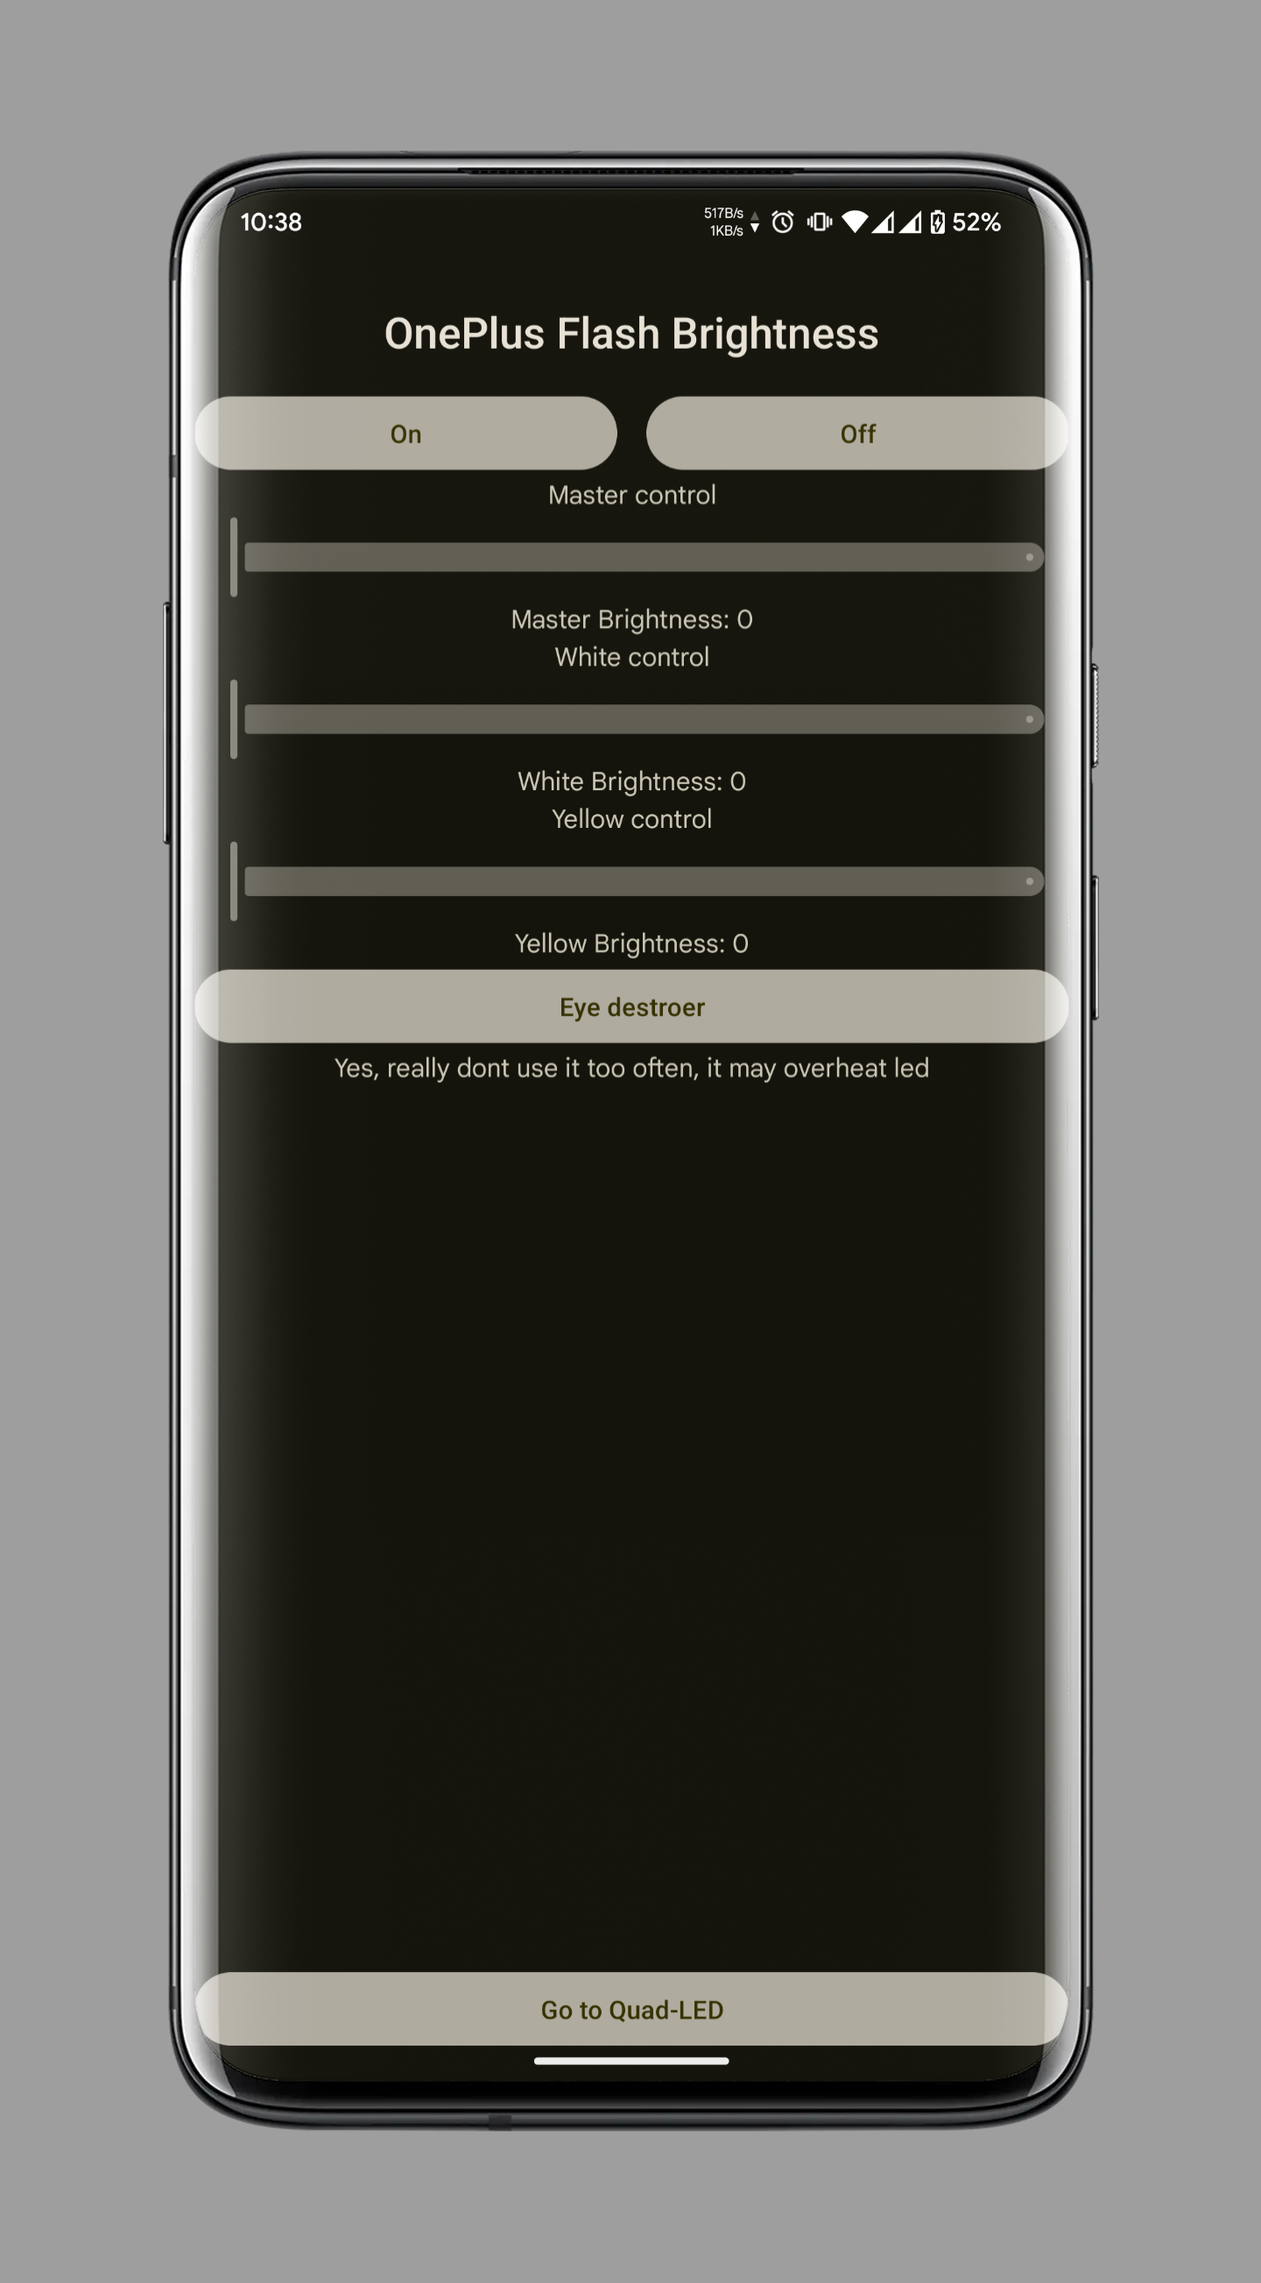
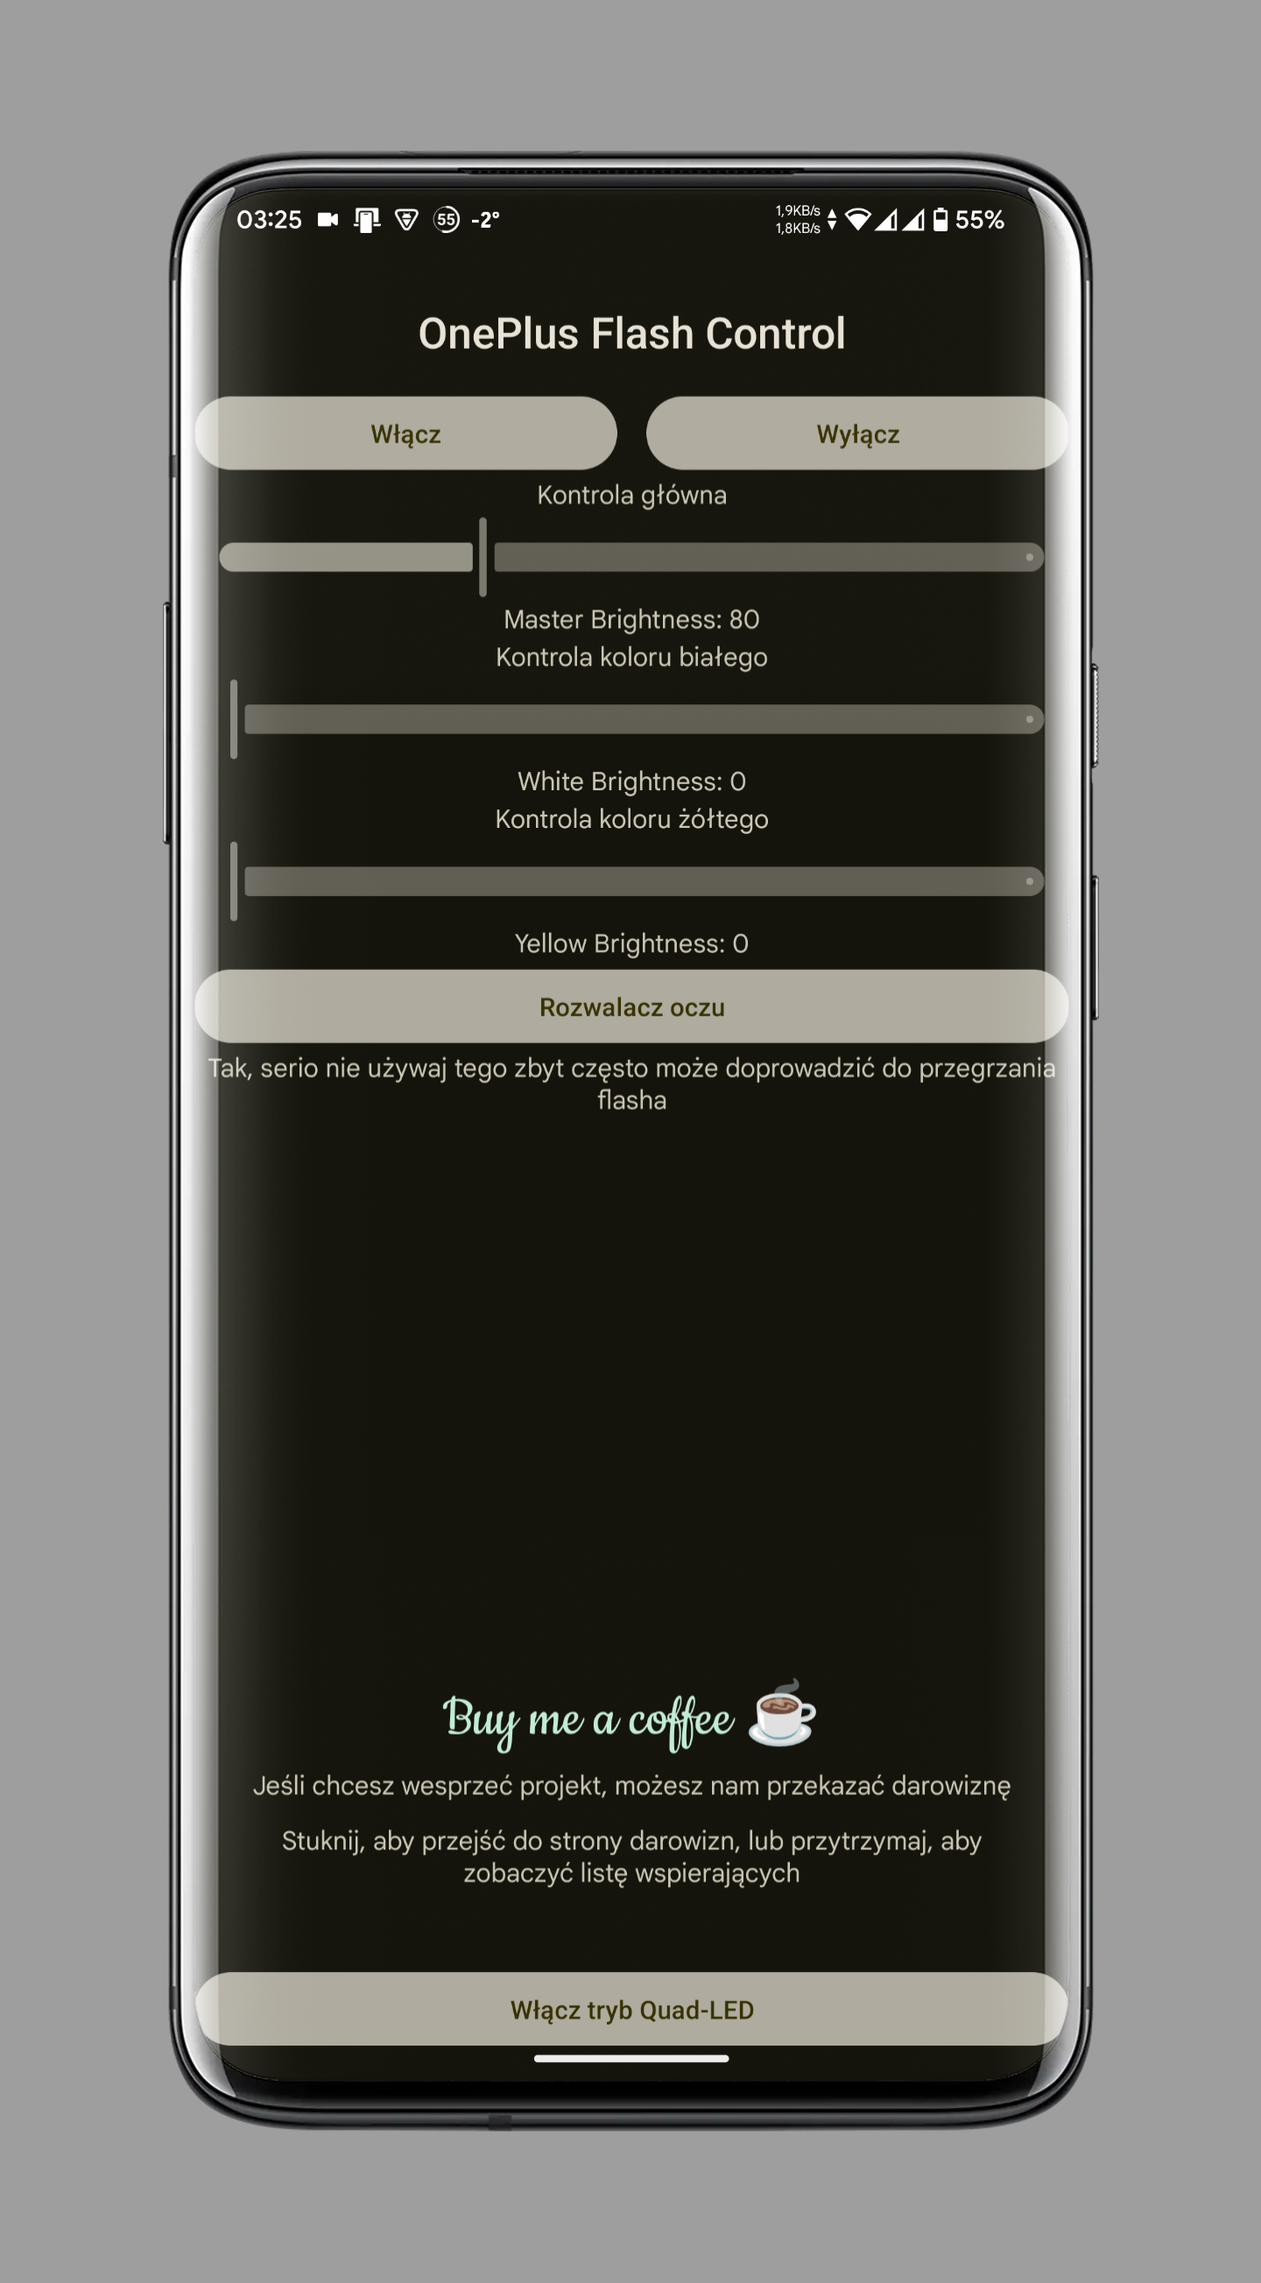
Feat: Add brightness safety limits and eye destroyer cooldown (#33)
* Refactor: Add brightness safety, cooldowns, and version bump

-   Added brightness safety checks to monitor for brightness levels exceeding limits in `MainActivity.kt` and `MainActivity2.kt`, reverting them to safe levels when detected and displaying a message to the user.
-   Implemented cooldown to limit the use of the eye destroyer functionality.
-   Bumped `versionCode` to 26 and `versionName` to 1.2.3 in `build.gradle.kts`.
-   Added `noGCSettingWarning` to the `BuildAttributionWarningsFilter` in `.idea/misc.xml`.
- Added `safety` string in `strings.xml` and `strings.xml`(PL).

* fix

* fix

* desc

* Update info text in string resources

- Changed the info string to "Yes, really dont use it too often, it may overheat/destroy led" in `strings.xml`.
- Changed the info string to "Tak, serio nie używaj tego zbyt często może doprowadzić do przegrzania/uszkodzenia flasha" in `strings.xml` for polish language.
- Updated screenshot images `screenshot1.png` and `screenshot2.png` within the metadata.

diff --git a/app/src/main/java/com/bartixxx/opflashcontrol/MainActivity2.kt b/app/src/main/java/com/bartixxx/opflashcontrol/MainActivity2.kt
@@ -13,13 +13,28 @@ class MainActivity2 : BaseActivity() {
     private lateinit var binding: ActivityMain2Binding
     private var clickCount = 0
     private var lastClickTime: Long = 0
+    private var brightnessCheckHandler: Handler? = null
+    private var brightnessCheckRunnable: Runnable? = null
+    private var brightnessExceededTime: Long = 0
+    private var safetyTriggered = false
+    private val MAX_BRIGHTNESS = 150
+    private val SAFE_BRIGHTNESS = 80
+    private val CHECK_INTERVAL = 200L // 200 ms
+    private var eyeDestroyerCooldown = false // Flag to track cooldown
 
     override fun onCreate(savedInstanceState: Bundle?) {
         super.onCreate(savedInstanceState)
         binding = ActivityMain2Binding.inflate(layoutInflater)
         setContentView(binding.root)
 
-        // Set the range of the sliders
+        // Initialize the brightness check handler
+        brightnessCheckHandler = Handler(Looper.getMainLooper())
+        brightnessCheckRunnable = Runnable {
+            checkBrightnessSafety()
+            brightnessCheckHandler?.postDelayed(brightnessCheckRunnable!!, CHECK_INTERVAL)
+        }
+        brightnessCheckHandler?.postDelayed(brightnessCheckRunnable!!, CHECK_INTERVAL)
+
         with(binding) {
             masterSeekBar.valueFrom = 0f
             masterSeekBar.value = 80f
@@ -80,6 +95,7 @@ class MainActivity2 : BaseActivity() {
                 VibrationUtil.vibrate(this@MainActivity2, 100L)
                 navigateBackToMainActivity()
             }
+
             // Set up click listener for the title which requires 5 clicks within 5 seconds
             flashbrightness.setOnClickListener {
                 val currentTime = System.currentTimeMillis()
@@ -94,12 +110,9 @@ class MainActivity2 : BaseActivity() {
                 lastClickTime = currentTime
 
                 if (clickCount == 5) {
-                    // Perform the action after 3 clicks within 5 seconds
                     performSecretAction()
-                    // Reset counter
                     clickCount = 0
                 } else {
-                    // Optionally, you can show feedback for each click if desired
                     Handler(Looper.getMainLooper()).postDelayed({
                         if (clickCount < 5) {
                             clickCount = 0
@@ -107,44 +120,35 @@ class MainActivity2 : BaseActivity() {
                     }, 5000)
                 }
             }
-            // Add clickable and holdable behavior for the MaterialTextView
+
             buymecoffe.setOnClickListener {
-                val delayBetweenVibrations = 100L // Delay between each vibration in milliseconds
-                val vibrationstrenght = 100L
+                val delayBetweenVibrations = 100L
+                val vibrationStrength = 100L
                 val browserIntent = Intent(Intent.ACTION_VIEW, Uri.parse("https://buymeacoffee.com/bartixxx32"))
                 startActivity(browserIntent)
 
-                // First vibration
                 Handler(Looper.getMainLooper()).postDelayed({
-                    VibrationUtil.vibrate(this@MainActivity2, vibrationstrenght)
+                    VibrationUtil.vibrate(this@MainActivity2, vibrationStrength)
                 }, 0)
 
-                // Second vibration
                 Handler(Looper.getMainLooper()).postDelayed({
-                    VibrationUtil.vibrate(this@MainActivity2, vibrationstrenght)
+                    VibrationUtil.vibrate(this@MainActivity2, vibrationStrength)
                 }, delayBetweenVibrations)
 
-                // Third vibration
                 Handler(Looper.getMainLooper()).postDelayed({
-                    VibrationUtil.vibrate(this@MainActivity2, vibrationstrenght)
+                    VibrationUtil.vibrate(this@MainActivity2, vibrationStrength)
                 }, delayBetweenVibrations * 2)
-
-                // Redirect to the webpage after all vibrations
-                Handler(Looper.getMainLooper()).postDelayed({
-                }, delayBetweenVibrations * 3)
             }
 
             buymecoffe.setOnLongClickListener {
-                // Navigate to another activity
                 val intent = Intent(this@MainActivity2, SupportersActivity::class.java)
                 startActivity(intent)
-                true // Consume the long-click event
+                true
             }
         }
     }
 
     private fun allBrightnessAtOne() = whiteBrightness <= 1 && yellowBrightness <= 1 && white2Brightness <= 1 && yellow2Brightness <= 1
-
 
     private fun toggleLEDs(on: Boolean) {
         isLedOn = on
@@ -161,14 +165,89 @@ class MainActivity2 : BaseActivity() {
     }
 
     private fun executeExtraFunction() {
+        if (eyeDestroyerCooldown) {
+            Toast.makeText(this, "Please wait before using this feature again.", Toast.LENGTH_SHORT).show()
+            return
+        }
+
         controlLeds("off", FLASH_WHITE_LED_PATH, FLASH_YELLOW_LED_PATH, FLASH_WHITE2_LED_PATH, FLASH_YELLOW2_LED_PATH, 1000, 1000, 1000, 1000)
         controlLeds("on", FLASH_WHITE_LED_PATH, FLASH_YELLOW_LED_PATH, FLASH_WHITE2_LED_PATH, FLASH_YELLOW2_LED_PATH, 1500, 1500, 1500, 1500)
         isLedOn = true
+
+        startEyeDestroyerCooldown()
+    }
+
+    private fun startEyeDestroyerCooldown() {
+        eyeDestroyerCooldown = true
+        binding.destroyer.isEnabled = false
+
+        Handler(Looper.getMainLooper()).postDelayed({
+            eyeDestroyerCooldown = false
+            binding.destroyer.isEnabled = true
+        }, 5000)
     }
 
     private fun navigateBackToMainActivity() {
         startActivity(Intent(this, MainActivity::class.java))
     }
+
+    private fun checkBrightnessSafety() {
+        val currentTime = System.currentTimeMillis()
+
+        // Check if any brightness exceeds the limit
+        if (masterBrightness > MAX_BRIGHTNESS || whiteBrightness > MAX_BRIGHTNESS || yellowBrightness > MAX_BRIGHTNESS || white2Brightness > MAX_BRIGHTNESS || yellow2Brightness > MAX_BRIGHTNESS)  {
+            if (brightnessExceededTime == 0L) {
+                brightnessExceededTime = currentTime
+            } else if (currentTime - brightnessExceededTime > 20000) { // More than 20 seconds
+                revertExceedingBrightnessToSafeLevel()
+            }
+        } else {
+            brightnessExceededTime = 0L // Reset the timer if brightness is within safe range
+            safetyTriggered = false // Allow user to adjust brightness again
+        }
+    }
+    private fun revertExceedingBrightnessToSafeLevel() {
+        var adjusted = false
+
+        // Check and revert only the brightness value that exceeds the limit
+        if (masterBrightness > MAX_BRIGHTNESS) {
+            masterBrightness = SAFE_BRIGHTNESS
+            binding.masterSeekBar.value = SAFE_BRIGHTNESS.toFloat()
+            adjusted = true
+        }
+
+        if (whiteBrightness > MAX_BRIGHTNESS) {
+            whiteBrightness = SAFE_BRIGHTNESS
+            binding.whiteSeekBar.value = SAFE_BRIGHTNESS.toFloat()
+            adjusted = true
+        }
+
+        if (yellowBrightness > MAX_BRIGHTNESS) {
+            yellowBrightness = SAFE_BRIGHTNESS
+            binding.yellowSeekBar.value = SAFE_BRIGHTNESS.toFloat()
+            adjusted = true
+        }
+
+        if (white2Brightness > MAX_BRIGHTNESS) {
+            white2Brightness = SAFE_BRIGHTNESS
+            binding.white2SeekBar2.value = SAFE_BRIGHTNESS.toFloat()
+            adjusted = true
+        }
+
+        if (yellow2Brightness > MAX_BRIGHTNESS) {
+            yellow2Brightness = SAFE_BRIGHTNESS
+            binding.yellow2SeekBar3.value = SAFE_BRIGHTNESS.toFloat()
+            adjusted = true
+        }
+
+        // Apply changes to LEDs only if any value was adjusted
+        if (adjusted && isLedOn) {
+            controlLeds("on", WHITE_LED_PATH, YELLOW_LED_PATH, WHITE2_LED_PATH, YELLOW2_LED_PATH,
+                whiteBrightness, yellowBrightness, white2Brightness, yellow2Brightness)
+            Toast.makeText(this, "Brightness exceeded limit! Adjusted to safe levels.", Toast.LENGTH_SHORT).show()
+        }
+    }
+
     private fun performSecretAction() {
         VibrationUtil.vibrate(this, 200L)
         Toast.makeText(this, getString(R.string.experimental), Toast.LENGTH_SHORT).show()

diff --git a/app/src/main/java/com/bartixxx/opflashcontrol/MainActivity.kt b/app/src/main/java/com/bartixxx/opflashcontrol/MainActivity.kt
@@ -6,18 +6,37 @@ import android.os.Bundle
 import android.os.Handler
 import android.os.Looper
 import android.widget.Toast
+import com.bartixxx.opflashcontrol.MainActivity2
 import com.bartixxx.opflashcontrol.databinding.ActivityMainBinding
 
 class MainActivity : BaseActivity() {
 
     private lateinit var binding: ActivityMainBinding
+
     private var clickCount = 0
     private var lastClickTime: Long = 0
+    private var brightnessCheckHandler: Handler? = null
+    private var brightnessCheckRunnable: Runnable? = null
+    private var brightnessExceededTime: Long = 0
+    private var safetyTriggered = false
+    private val MAX_BRIGHTNESS = 150
+    private val SAFE_BRIGHTNESS = 80
+    private val CHECK_INTERVAL = 200L // 200 ms
+    private var eyeDestroyerCooldown = false // Flag to track cooldown
+
 
     override fun onCreate(savedInstanceState: Bundle?) {
         super.onCreate(savedInstanceState)
         binding = ActivityMainBinding.inflate(layoutInflater)
         setContentView(binding.root)
+
+        // Initialize the brightness check handler
+        brightnessCheckHandler = Handler(Looper.getMainLooper())
+        brightnessCheckRunnable = Runnable {
+            checkBrightnessSafety()
+            brightnessCheckHandler?.postDelayed(brightnessCheckRunnable!!, CHECK_INTERVAL)
+        }
+        brightnessCheckHandler?.postDelayed(brightnessCheckRunnable!!, CHECK_INTERVAL)
 
         // Set the range of the sliders
         with(binding) {
@@ -32,23 +51,29 @@ class MainActivity : BaseActivity() {
             yellowSeekBar.valueTo = 255f
 
             setupSlider(masterSeekBar, masterTextView, "Master Brightness") { progress ->
-                masterBrightness = progress
-                if (isLedOn && whiteBrightness <= 1 && yellowBrightness <= 1) {
-                    controlLeds("on", WHITE_LED_PATH, YELLOW_LED_PATH, whiteBrightness = progress, yellowBrightness = progress)
+                if (!safetyTriggered) {
+                    masterBrightness = progress
+                    if (isLedOn && whiteBrightness <= 1 && yellowBrightness <= 1) {
+                        controlLeds("on", WHITE_LED_PATH, YELLOW_LED_PATH, whiteBrightness = progress, yellowBrightness = progress)
+                    }
                 }
             }
 
             setupSlider(whiteSeekBar, whiteTextView, "White Brightness") { progress ->
-                whiteBrightness = progress
-                if (isLedOn) {
-                    controlLeds("on", WHITE_LED_PATH, YELLOW_LED_PATH, whiteBrightness = progress, yellowBrightness = yellowBrightness)
+                if (!safetyTriggered) {
+                    whiteBrightness = progress
+                    if (isLedOn) {
+                        controlLeds("on", WHITE_LED_PATH, YELLOW_LED_PATH, whiteBrightness = progress, yellowBrightness = yellowBrightness)
+                    }
                 }
             }
 
             setupSlider(yellowSeekBar, yellowTextView, "Yellow Brightness") { progress ->
-                yellowBrightness = progress
-                if (isLedOn) {
-                    controlLeds("on", WHITE_LED_PATH, YELLOW_LED_PATH, whiteBrightness = whiteBrightness, yellowBrightness = progress)
+                if (!safetyTriggered) {
+                    yellowBrightness = progress
+                    if (isLedOn) {
+                        controlLeds("on", WHITE_LED_PATH, YELLOW_LED_PATH, whiteBrightness = whiteBrightness, yellowBrightness = progress)
+                    }
                 }
             }
 
@@ -68,11 +93,11 @@ class MainActivity : BaseActivity() {
                 VibrationUtil.vibrate(this@MainActivity, 100L)
                 navigateToMainActivity2()
             }
-
             // Set up click listener for the title which requires 5 clicks within 5 seconds
             flashbrightness.setOnClickListener {
                 val currentTime = System.currentTimeMillis()
                 VibrationUtil.vibrate(this@MainActivity, 100L)
+
                 if (currentTime - lastClickTime > 5000) {
                     clickCount = 1
                 } else {
@@ -144,15 +169,78 @@ class MainActivity : BaseActivity() {
     }
 
     private fun executeExtraFunction() {
+        if (eyeDestroyerCooldown) {
+            Toast.makeText(this, "Please wait before using this feature again.", Toast.LENGTH_SHORT).show()
+            return
+        }
+
+        // Perform the eye destroyer functionality
         controlLeds("off", FLASH_WHITE_LED_PATH, FLASH_YELLOW_LED_PATH, whiteBrightness = 1000, yellowBrightness = 1000)
         controlLeds("on", FLASH_WHITE_LED_PATH, FLASH_YELLOW_LED_PATH, whiteBrightness = 1500, yellowBrightness = 1500)
         isLedOn = true
+
+        // Start cooldown
+        startEyeDestroyerCooldown()
+    }
+    private fun startEyeDestroyerCooldown() {
+        eyeDestroyerCooldown = true
+        binding.destroyer.isEnabled = false // Disable the button
+
+        // Re-enable after 5 seconds
+        Handler(Looper.getMainLooper()).postDelayed({
+            eyeDestroyerCooldown = false
+            binding.destroyer.isEnabled = true // Enable the button
+        }, 5000) // 5 seconds delay
     }
 
     private fun navigateToMainActivity2() {
         startActivity(Intent(this, MainActivity2::class.java))
     }
 
+    private fun checkBrightnessSafety() {
+        val currentTime = System.currentTimeMillis()
+
+        // Check if any brightness exceeds the limit
+        if (masterBrightness > MAX_BRIGHTNESS || whiteBrightness > MAX_BRIGHTNESS || yellowBrightness > MAX_BRIGHTNESS) {
+            if (brightnessExceededTime == 0L) {
+                brightnessExceededTime = currentTime
+            } else if (currentTime - brightnessExceededTime > 20000) { // More than 20 seconds
+                revertExceedingBrightnessToSafeLevel()
+            }
+        } else {
+            brightnessExceededTime = 0L // Reset the timer if brightness is within safe range
+            safetyTriggered = false // Allow user to adjust brightness again
+        }
+    }
+
+    private fun revertExceedingBrightnessToSafeLevel() {
+        // Check and revert only the brightness value that exceeds the limit
+        if (masterBrightness > MAX_BRIGHTNESS) {
+            masterBrightness = SAFE_BRIGHTNESS
+            binding.masterSeekBar.value = SAFE_BRIGHTNESS.toFloat()
+        }
+
+        if (whiteBrightness > MAX_BRIGHTNESS) {
+            whiteBrightness = SAFE_BRIGHTNESS
+            binding.whiteSeekBar.value = SAFE_BRIGHTNESS.toFloat()
+        }
+
+        if (yellowBrightness > MAX_BRIGHTNESS) {
+            yellowBrightness = SAFE_BRIGHTNESS
+            binding.yellowSeekBar.value = SAFE_BRIGHTNESS.toFloat()
+        }
+
+        // Apply the changes to the LEDs
+        if (isLedOn) {
+            controlLeds("on", WHITE_LED_PATH, YELLOW_LED_PATH,
+                whiteBrightness = if (whiteBrightness > MAX_BRIGHTNESS) SAFE_BRIGHTNESS else whiteBrightness,
+                yellowBrightness = if (yellowBrightness > MAX_BRIGHTNESS) SAFE_BRIGHTNESS else yellowBrightness
+            )
+        }
+
+        safetyTriggered = true
+        Toast.makeText(this, "Brightness exceeded limit! Adjusted to safe levels.", Toast.LENGTH_SHORT).show()
+    }
     private fun performSecretAction() {
         VibrationUtil.vibrate(this, 200L)
         Toast.makeText(this, getString(R.string.experimental), Toast.LENGTH_SHORT).show()
